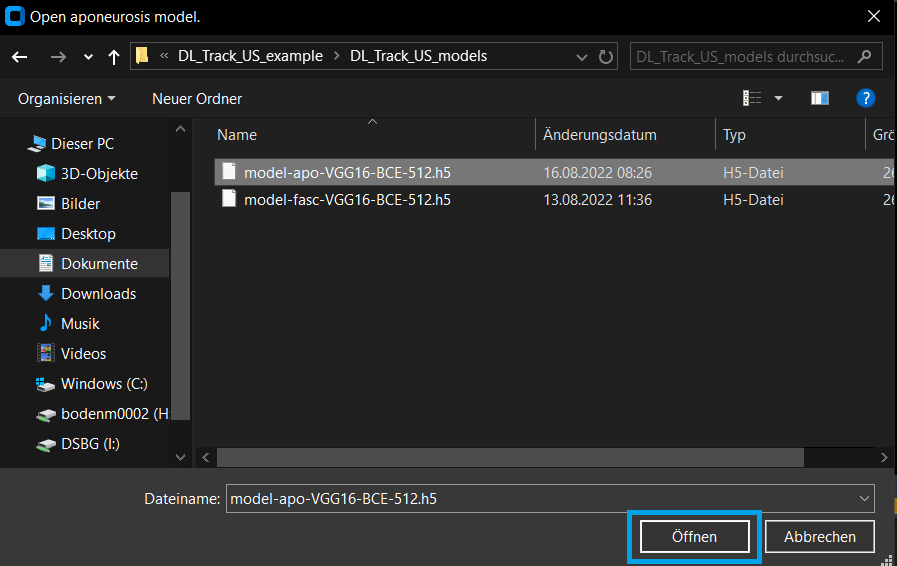
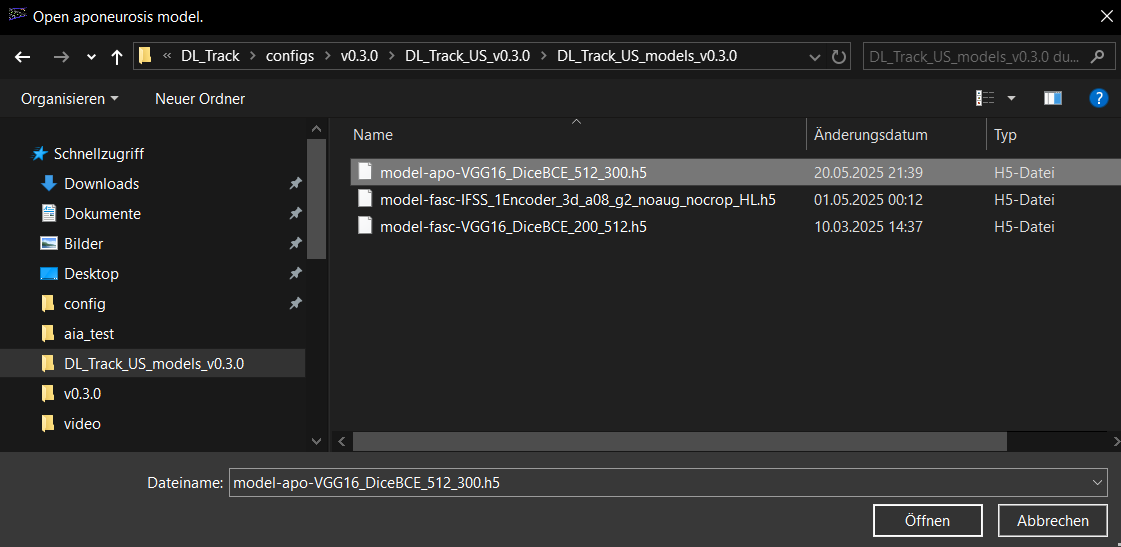
feat(DL_Track_US/*-pyproject.toml-setup.py): prepare 0.3.0 release, fixed final docs issue
BREAKING CHANGE:

diff --git a/DL_Track_US/DL_Track_US_GUI.py b/DL_Track_US/DL_Track_US_GUI.py
@@ -66,9 +66,8 @@ from DL_Track_US.gui_modules import AdvancedAnalysis
 # disable interactive backend
 plt.ioff()
 
-# TODO installer for mac
-# TODO final doc check
-# TODO OSF Page
+# TODO Installer MacOS
+# TODO github workflow docs deploy on release
 
 
 class DLTrack(ctk.CTk):

diff --git a/DL_Track_US/docs/automated_image_analysis.md b/DL_Track_US/docs/automated_image_analysis.md
@@ -6,7 +6,7 @@ Scaling ensures that estimated muscle architectural parameters are converted int
 
 **Important:** This type of analysis works **only for single images**, not videos.  
 All images must be contained in a single folder, for example:  
-`DL_Track_US_example/images`.
+`DL_Track_US_v0.3.0/images`.
 
 If you have not downloaded the example dataset yet, please do so now:  
 [DL_Track_US - Examples & Models](https://osf.io/7mjsc/?view_only=).
@@ -18,7 +18,7 @@ If you have not downloaded the example dataset yet, please do so now:
 ## 1. Creating Image Directory & FlipFlag.txt File
 
 - All images you want to analyze must be placed in **one folder**.
-- The folder `DL_Track_US_example/images` contains <span style="color: #2eaf66;">**4 images**</span> and a <span style="color: #f97e25;">**flip_flag.txt**</span> file.
+- The folder `DL_Track_US_v0.3.0/images` contains <span style="color: #2eaf66;">**4 images**</span> and a <span style="color: #f97e25;">**flip_flag.txt**</span> file.
 - It is not required to have the `flip_flag.txt` file in the same folder as the images, but it is convenient.
 
 ![image directory](md_graphics/aia/image_directory.PNG)
@@ -48,7 +48,7 @@ If your fascicles are oriented differently, please specify a `1` flip-flag for t
 Once the GUI is opened, the first step of every analysis in DL_Track_US is to specify the input directories.
 
 - First, specify the path to the folder containing the images to be analysed.  
-  Remember, this was the folder `DL_Track_US_example/images`.
+  Remember, this was the folder `DL_Track_US_v0.3.0/images`.
     - Click the <span style="color: #a34ba1;">**Inputs**</span> button. A selection window opens where you can select the folder.  
     - Click <span style="color: #299ed9;">**Select folder**</span> to confirm your choice.
 
@@ -56,15 +56,16 @@ Once the GUI is opened, the first step of every analysis in DL_Track_US is to sp
 ![input folder 2](md_graphics/aia/input_folder_2.PNG)
 
 - Second, specify the absolute path to the **aponeurosis neural network**.  
-  This is located in the `DL_Track_US_example/DL_Track_US_models` folder.
+  This is located in the `DL_Track_US_v0.3.0/DL_Track_US_models` folder.
     - Click the <span style="color: #a34ba1;">**Apo Model**</span> button to open a selection window.
     - Select the **aponeurosis model** and click <span style="color: #299ed9;">**Open**</span>.
 
 ![apo model path](md_graphics/aia/apo_model_path.PNG)
 ![apo model path 2](md_graphics/aia/apo_model_path_2.PNG)
 
-- Third, specify the absolute path to the **fascicle neural network** (also located in `DL_Track_US_example/DL_Track_US_models`).
-    - Click the <span style="color: #a34ba1;">**Fasc Model**</span> button to select the **fascicle model**.
+- Third, specify the absolute path to the **fascicle neural network** (also located in `DL_Track_USv0.3.0/DL_Track_US_models`).
+    - Click the <span style="color: #a34ba1;">**Fasc Model**</span> button 
+    - Select the <span style="color: #dd083e;">**VGG16**</span> fascicle neural network file from `DL_Track_US_v0.3.0/models`.
     - Confirm by clicking <span style="color: #299ed9;">**Open**</span>.
 
 ![fasc model path](md_graphics/aia/fasc_model_path.PNG)
@@ -90,7 +91,7 @@ Next, you need to specify the **Image Type**.
 - The **ending** of the Image Type must match the ending of your input images — otherwise no files will be found.
 - You can either select a pre-specified ending from the dropdown list or type in your own.
 - Please keep the formatting similar to the provided examples.
-- In the `DL_Track_US_example/images` folder, the images are of type <span style="color: #a34ba1;">**“/*.tif”**</span>.
+- In the `DL_Track_US_v0.3.0/images` folder, the images are of type <span style="color: #a34ba1;">**“/*.tif”**</span>.
 
 ![image type](md_graphics/aia/image_type.PNG)
 
@@ -251,7 +252,7 @@ Key parameters explained:
 > For future analyses, always test parameter settings on a small sample of your data first.
 > *Especially, choose a pennation angle range that is physiologically plausible with a minimum range.*
 > 
-> If you accidentally disrupt the `settings.txt` file, there is a backup available: `_backup_settings.py`.
+> If you accidentally disrupt the `settings.txt` file, there is a backup available: `_backup_settings.py` (only when downloading the repository).
 
 ## 5. Running / Breaking DL_Track_US
 
@@ -261,19 +262,10 @@ After completing all setup steps, you are ready to start the analysis.
 - You will also see a <span style="color: #299ed9;">**Break**</span> button in the GUI.
 - Clicking <span style="color: #299ed9;">**Break**</span> allows you to stop the analysis at any time.
   - The currently processed image will be completed,
-  - Then the analysis will terminate gracefully.
+  - Then the analysis will terminate..
 
 ![running breaking](md_graphics/aia/running_breaking.PNG)
 
----
-
-Once the analysis runs successfully, the results are displayed as a line graph showing:
-
-- Median Fascicle Length
-- Median Filtered Fascicle Length
-- Filtered Median Fascicle Length
-
-![results_plot](md_graphics/aia/plotted_results.png)
 
 ---
 
@@ -317,7 +309,7 @@ Example of an error message:
 We have tried to make all error messages as **concise** and **informative** as possible.  
 Simply follow the instructions in the error box and restart the analysis after resolving the issue.
 
-> 💬 **Note:**  
+> ⚠ **Note:**  
 > If an unexpected error occurs that is not caught by a message box,  
 > please report it in the [DL_Track_US Discussion Forum - Q&A Section](https://github.com/PaulRitsche/DLTrack/discussions/categories/q-a).
 

diff --git a/DL_Track_US/docs/news.md b/DL_Track_US/docs/news.md
@@ -5,7 +5,8 @@
 ## v0.3.0 Release Notes
 
 - Released version 0.3.0 with major upgrades and bugfixes!
-- New features: anual scaling tool, resize Video tool, crop video length tool & remove video parts tool.
+- New features: manual scaling tool, resize Video tool, crop video length tool & remove video parts tool.
+- New installer for Windows.
 - Faster model predictions & optional stacked (sequential) predictions.
 - Improved user interface with visualization of model predictions and filtering/plotting of results.
 - Automatic `settings.json` in GUI for easy switching of model parameters.
@@ -15,17 +16,19 @@
 
 ### Faster model predicitions on GPU & CPU
 
-In the new version, we reduced processing time per frame by 40% from version 0.2.1 (RTX4080 & Intel i9), respectively.
+In version 0.3.0, we reduced processing time per frame by 40% from version 0.2.1 (RTX4080 & Intel i9), respectively.
 
 ### Improved user interface
 
-In version 0.3.0 we improved the user interface and included real time visualization of model predictions as well as a results terminal at the end of analyis. The analysis process is now more transparent and felxibel, since we included more analysis options in the settings. 
+In version 0.3.0, we improved the user interface and included real time visualization of model predictions as well as a results terminal at the end of analyis. The analysis process is now more transparent and felxibel, since we included more analysis options in the settings. 
 
 ![DL_Track_Main](md_graphics/DLTrack_mainUI.png)
 
-### New model with bi-directional short long term memory for video analysis
+### Video Analysis 
 
-We further provide a new model with a new overall aproach for fascicle anylsis in videos. **For the first time, we provide a model with memory and awareness of surrounding frames**. The model is taken from [Chanti et al. (2021)](https://ieeexplore.ieee.org/document/9350651) and is called **IFSS_NET**. 
+#### New model with bi-directional short long term memory for video analysis
+
+We further provide a new model with a new overall aproach for fascicle anaylsis in videos. **For the first time, we provide a model with memory and awareness of surrounding frames**. The model is taken from [Chanti et al. (2021)](https://ieeexplore.ieee.org/document/9350651) and is called **IFSS-NET**. 
 
 In our approach, we use a bi-directional short long term memory (BiLSTM) to capture the temporal context of the video. We excluded the siamese encoder from the orginal model. Furhtermore, we used a hybrid loss combination of the Dice loss and binary cross entropy loss, both weighted equally. 
 
@@ -41,7 +44,7 @@ Moreover, we compared the models due to similar performance to the one of the va
 
 ![model_comparison_calf_raise](md_graphics/model_training_test/model_comparison_calf_raise.png)	
 
-Note that, compared to v0.2.1, we introduced hampel-filtering of the fascicle values in each frame and additionally applied a savitzky-golay filter to the median fascicle data to furhter reduce root mean squared distance. The results for three different tasks are displayed below. 
+Note that, compared to v0.2.1, we introduced hampel-filtering of the fascicle values in each frame and additionally applied a savitzky-golay filter to the median fascicle data to furhter reduce root mean squared distance. The results for two different tasks are displayed below. 
 
 ##### Calf Raise
 
@@ -51,10 +54,28 @@ Note that, compared to v0.2.1, we introduced hampel-filtering of the fascicle va
 
 ![model_comparison_mvc](md_graphics/model_training_test/model_comparison_mvc.png)
 
+#### Benchmarking
+
+Benchmark results for the IFSS-Net model will be published soon.
+
 
 🚨 **More comparsions will follow in the upcoming publication.**
 
+### Image Analysis
+
+#### Benchmarking
+
+We compared the results of our VGG16Unet models to the results of the benchmark dataset from [UMUD](https://universalmuscledatabase.streamlit.app/) ([Ritsche et al. (2025)](https://osf.io/preprints/osf/syr4z_v1)). We used the standard settings. The results were calcualted on a RTX4080 GPU and Intel i9 CPU. Better rsults can be achieved by adapting the analysis settings. The benchmark results can be viewed in the [OSF repository](https://osf.io/7mjsc/files/osfstorage).
+
+|         | Muscle Thickness (mm)      | Fascicle length (mm)     | Pennation angle (°)       |
+|---------|------------|------------|-------------|
+| **MEAN** | 0.126911   | 3.874385   | -0.407885   |
+| **STD**  | 3.339651   | 4.581032   | 1.942850    |
+
+
+
 🚨 We are currently working on implementing tracking of fascicles accounting for their curvature.
+
 
 
 ---

diff --git a/DL_Track_US/docs/automated_video_analysis.md b/DL_Track_US/docs/automated_video_analysis.md
@@ -43,7 +43,7 @@ Once the GUI is open:
 Next, specify the aponeurosis model:
 
 - Click the <span style="color: #a34ba1;">**Apo Model**</span> button.
-- Select the aponeurosis neural network file from `DL_Track_US_example/models`.
+- Select the aponeurosis neural network file from `DL_Track_US_v0.3.0/models`.
 - Click <span style="color: #299ed9;">**Open**</span>.
 
 ![apo model button](md_graphics/ava/apo_model_button.png)
@@ -54,7 +54,7 @@ Next, specify the aponeurosis model:
 Then, specify the fascicle model:
 
 - Click the <span style="color: #a34ba1;">**Fasc Model**</span> button.
-- Select the fascicle neural network file from `DL_Track_US_example/models`.
+- Select the <span style="color: #dd083e;">**IFSS**</span> fascicle neural network file from `DL_Track_US_v0.3.0/models`.
 - Click <span style="color: #299ed9;">**Open**</span>.
 
 ![fasc model button](md_graphics/ava/fasc_model_button.png)
@@ -140,6 +140,7 @@ Open the settings by clicking the <span style="color: #a34ba1;">**Settings Wheel
 
 - A txt script `settings.txt` opens in your default editor.
 - Default values are listed.
+- <span style="color:#dd083e;">**Make sure that "segmentation_mode" is set to "stacked"**</span>.
 
 ![analysis parameters](md_graphics/ava/analysis_parameters.PNG)
 ![settings.py](md_graphics/ava/settings_py.PNG)
@@ -153,7 +154,7 @@ You can find an explanation on all setting in [this chapter](automated_image_ana
 > For future analyses, always test parameter settings on a small sample of your data first.
 > *Especially, choose a pennation angle range that is physiologically plausible with a minimum range.*
 > 
-> If you accidentally disrupt the `settings.txt` file, there is a backup available: `_backup_settings.py`.
+> If you accidentally disrupt the `settings.txt` file, there is a backup available: `_backup_settings.py` (only when downloading the repository).
 
 ---
 
@@ -201,7 +202,7 @@ If an error occurs:
 We have tried to make all error messages as **concise** and **informative** as possible.  
 Simply follow the instructions in the error box and restart the analysis after resolving the issue.
 
-> 💬 **Note:**  
+> ⚠ **Note:**  
 > If an unexpected error occurs that is not caught by a message box,  
 > please report it in the [DL_Track_US Discussion Forum - Q&A Section](https://github.com/PaulRitsche/DLTrack/discussions/categories/q-a).
 

diff --git a/DL_Track_US/docs/installation.md b/DL_Track_US/docs/installation.md
@@ -7,25 +7,29 @@ We provide **two ways** to install DL_Track_US:
 
 ---
 
-## Option 1: Download the Installer (Recommended for Beginners)
+## Option 1: Download the Installer (Recommended for Beginners & Windows only)
 
 > **No programming required**
 
-1. Visit our [OSF project page](https://osf.io/7mjsc/?view_only=)  
+1. Visit our [OSF project page](https://osf.io/7mjsc/?view_only=) and anvigate to `Files/v0.3.0/´
 2. Download and unzip the file: `DL_Track_US_example0.3.0.zip`
 3. Inside the unzipped folder, open:  
-   `DL_Track_US_example/installer/DLTrackUS_Installer.exe`
+   `DL_Track_US_example/DL_Track_US_Installer/DLTrackUS_Installer_Windows.exe`
 4. Follow the instructions in the installation wizard.
-4. Double-click the desktop icon to launch the **DL_Track_US GUI**
+5. Double-click the desktop icon to launch the **DL_Track_US GUI**
+
+> If you want to change the analysis settings, **run DL_Track_US as administrator**.
 
 You can now test the app using the provided example files.  
 Check our [Tutorial](https://paulritsche.github.io/DL_Track_US/) and [Testing](https://paulritsche.github.io/DL_Track_US/) sections for more.
+
+⚠ **Note:** The DL_Track_US installer is available for Windows only. We are working on a MacOS version.
 
 ⚠ You might see a warning from your antivirus software. You can safely dismiss it, this app is secure and verified.
 
 ---
 
-## Option 2: Install via pip and GitHub (Recommended for Developers)
+## Option 2: Install via pip and GitHub (Recommended for Developers & MacOS)
 
 > Ideal for customization, development, or contributing
 
@@ -34,7 +38,7 @@ Check our [Tutorial](https://paulritsche.github.io/DL_Track_US/) and [Testing](h
 ### Step 1 - Install Anaconda
 
 - Download and install [Anaconda](https://www.anaconda.com/download)
-- âœ… Be sure to check the box:  
+- Be sure to check the box:  
   *Add Anaconda to my PATH environment variable*
 
 ---
@@ -72,6 +76,8 @@ cd path/to/DL_Track_US
 pip install -r requirements.txt
 python -m pip install -e .
 ```
+
+⚠ **Note:** DL_Track_US was tested on Windows 10 and 11 as well as M1/M2 Macs.
 
 ---
 

diff --git a/DL_Track_US/docs/about_us.md b/DL_Track_US/docs/about_us.md
@@ -20,7 +20,7 @@ Our mission is to make **deep learning-based muscle architecture analysis** acce
 
 ## Roadmap
 
-✅ Current Version (v0.2.1) includes:
+✅ Current Version (v0.3.0) includes:
 
 - Automated and manual analysis of images and videos.
 - Fascicle, aponeurosis segmentation and muscle parameter extraction.
@@ -43,7 +43,8 @@ Our mission is to make **deep learning-based muscle architecture analysis** acce
 
 ### Paul Ritsche
 
-![paul](md_graphics\devs\paul_ritsche.png)
+
+<img src="../../md_graphics/devs/paul_ritsche.png" alt="paul" width="200">
 
 Paul is the **lead developer** and primary coder behind DL_Track_US.  
 He designed, implemented, and maintains the software in close collaboration with Neil Cronin.  
@@ -55,7 +56,7 @@ Paul has a background in **biomechanics**, **ultrasound imaging**, and **softwar
 
 ### Neil Cronin
 
-![neil](md_graphics\devs\neil_cronin.png)
+<img src="../../md_graphics/devs/neil_cronin.png" alt="neil" width="200">
 
 Neil is the **co-developer** and **main visionary** behind DL_Track_US.  
 His research in **biomechanics** and **muscle architecture** guided the core concepts and user-centered design of the tool.
@@ -66,7 +67,8 @@ His research in **biomechanics** and **muscle architecture** guided the core con
 
 ### Olivier Seynnes
 
-![olivier](md_graphics\devs\olivier_seynnes.png)
+<img src="../../md_graphics/devs/olivier_seynnes.png" alt="olivier" width="200">
+
 
 Olivier has been involved with DL_Track_US from the early stages, providing **critical input**, **scientific validation**, and **feedback** during development.  
 Olivier’s expertise in **muscle physiology** and **musculoskeletal ultrasound** ensured DL_Track_US met high scientific standards.

diff --git a/DL_Track_US/docs/index.md b/DL_Track_US/docs/index.md
@@ -34,6 +34,9 @@ Originally introduced by Cronin, Seynnes, and Finni in 2020, the method was subs
 - 👓 **Graphical interface**  
   No command-line experience needed. Use the GUI to configure settings and monitor progress.
 
+- 👁🗨 **Community effort**
+  Open-source project aimed to increase reproducibility and collaboration.
+
 ---
 
 ## Before You Start
@@ -42,7 +45,7 @@ Originally introduced by Cronin, Seynnes, and Finni in 2020, the method was subs
 - Image quality is critical. Ensure good contrast, brightness, and visibility of fascicles and aponeuroses.
 - Generalization may be limited. Device types and acquisition settings can affect results.
 - Poor predictions? Visually inspect model output and compare it to manual labels. Adjust parameters or train new models if needed.
-- Use the test scripts in the `DL_Track_US/tests` folder to confirm everything runs as expected on your system.
+- Use the test scripts in the `DL_Track_US_v0.3.0/tests` folder to confirm everything runs as expected on your system.
 
 ---
 

diff --git a/README_Pypi.md b/README_Pypi.md
@@ -2,8 +2,6 @@
 
 [![DOI](https://joss.theoj.org/papers/10.21105/joss.05206/status.svg)](https://doi.org/10.21105/joss.05206)
 
-![DL_Track_US image](./DL_Track_US/gui_helpers/gui_files/DLTrack_logo.png)
-
 The DL_Track_US package provides an easy to use graphical user interface (GUI) for deep learning based analysis of muscle architectural parameters from longitudinal ultrasonography images of human lower limb muscles. Please take a look at our [documentation](https://paulritsche.github.io/DL_Track_US/) for more information (note that aggressive ad-blockers might break the visualization of the repository description as well as the online documentation).
 This code is based on a previously published [algorithm](https://github.com/njcronin/DL_Track) and replaces it. We have extended the functionalities of the previously proposed code. The previous code will not be updated and future updates will be included in this repository. 
 

diff --git a/DL_Track_US/docs/model_training_test.md b/DL_Track_US/docs/model_training_test.md
@@ -54,7 +54,7 @@ Once training finishes, you should find **three new files** in your selected **o
 
 ---
 
-> 📝 **Note:**  
+> ⚠ **Note:**  
 > Because neural network training includes uncertainty, your results (e.g., final loss values) may slightly differ from ours.  
 >  
 > If the three files are generated correctly, it means your DL_Track_US installation **works properly for model training**!

diff --git a/CHANGELOG.rst b/CHANGELOG.rst
@@ -1,4 +1,23 @@
 
+2025-06-02
+==========
+
+Added
+-----
+
+- versioning for mkdocs page with mike
+
+Changed
+-------
+
+- Documentation: for manual and automatic image and video analysis to include new models in tutorial.
+
+Fixed
+-----
+
+- pyproject.toml / setup.cfg / setup.py: Bump version to 0.3.0
+- mkdocs.yml
+
 2025-05-26
 ==========
 
